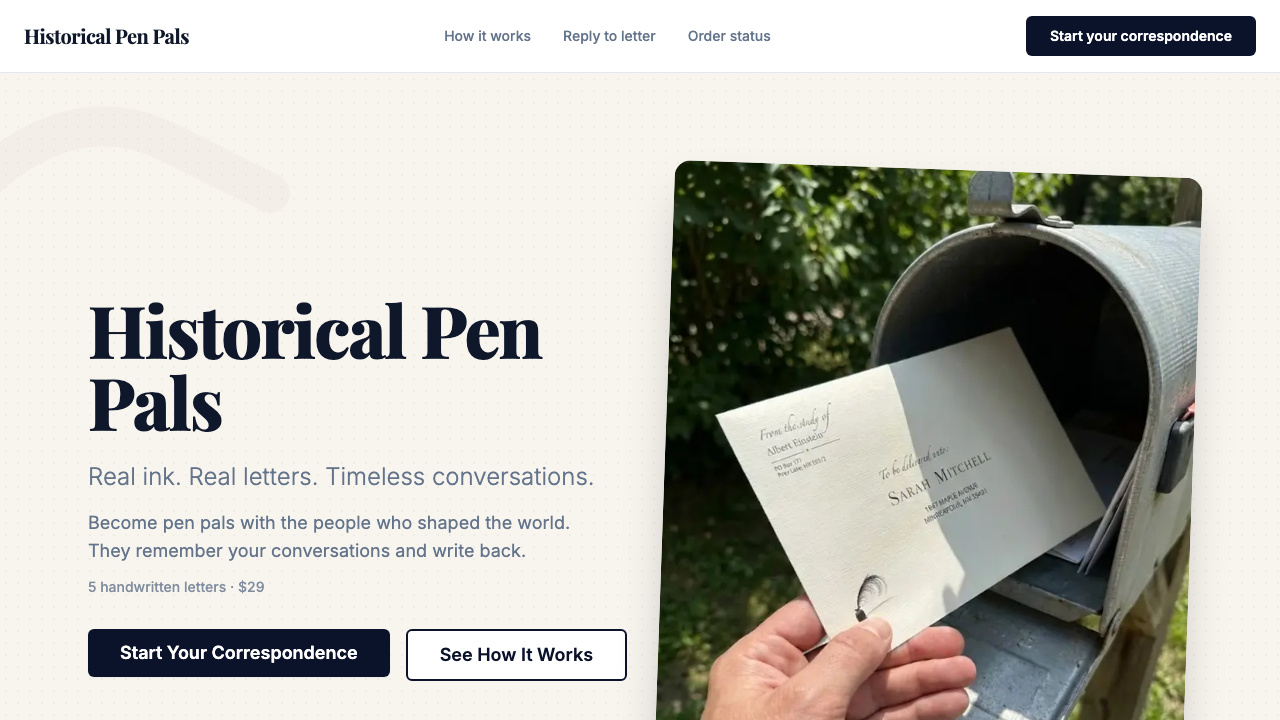
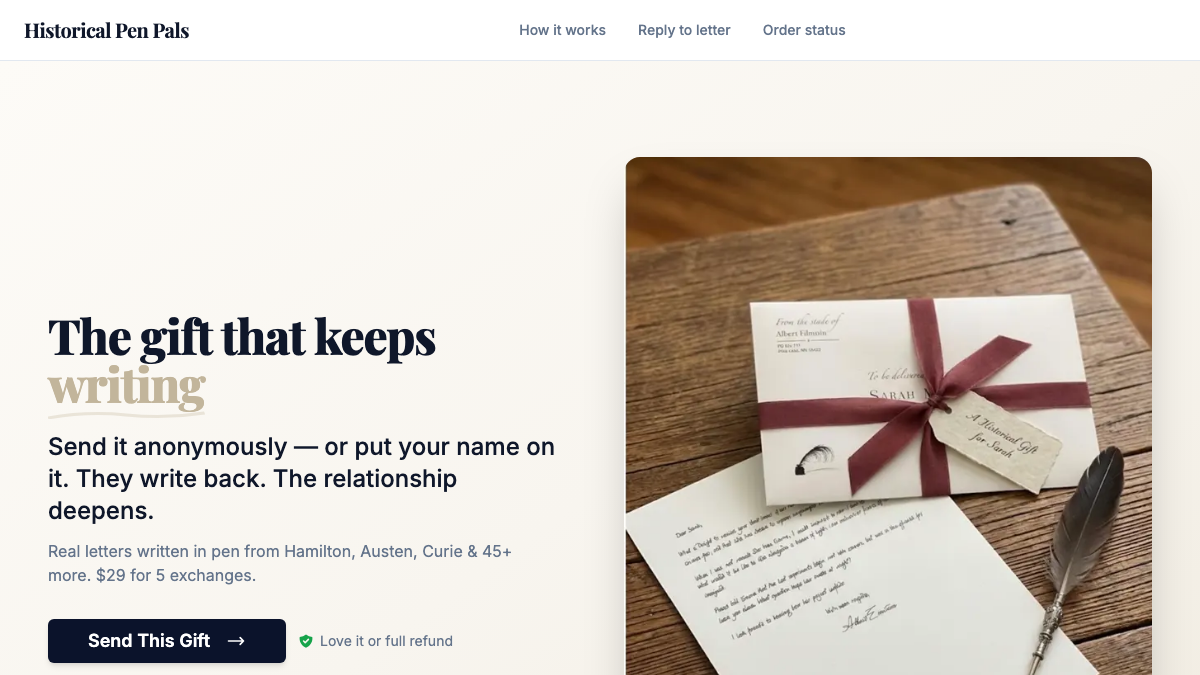
Update Historical Pen Pals to link to gift page with new screenshot
Reinforces the data-driven pivot to gift buyers in the portfolio copy.

diff --git a/src/app/page.tsx b/src/app/page.tsx
@@ -64,7 +64,7 @@ const projects = [
   },
   {
     name: "Historical Pen Pals",
-    url: "https://historicalpenpals.com",
+    url: "https://www.historicalpenpals.com/gift",
     screenshot: "/screenshots/historicalpenpals.png",
     problem:
       "The greeting card market is a $7 disposable experience. Meanwhile, people (especially parents and history enthusiasts) are looking for something more meaningful than a screen. I saw whitespace at the intersection of physical mail, AI personalization, and storytelling. A different kind of product than anything I'd built before, which was the point.",
